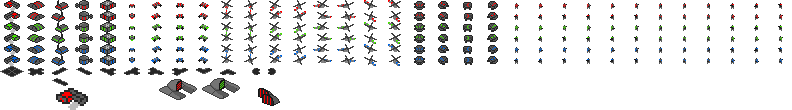
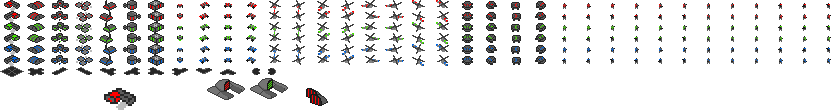
Add Barracks and Powerplant.

Changed region(s): [[0.0, 0.0, 1.0, 0.6818], [0.1818, 0.7091, 0.3939, 0.9545], [0.0606, 0.7091, 0.1818, 1.0]]

diff --git a/src/sk/neuromancer/Xune/gfx/SpriteSheet.java b/src/sk/neuromancer/Xune/gfx/SpriteSheet.java
@@ -28,15 +28,17 @@ public class SpriteSheet {
 
     public static final int SPRITE_ID_BASE = 0;
     public static final int SPRITE_ID_FACTORY = 1;
-    public static final int SPRITE_ID_REFINERY = 2;
-    public static final int SPRITE_ID_SILO = 3;
-    public static final int SPRITE_ID_HELIPAD = 4;
-    public static final int SPRITE_ID_BUGGY = 5;
-    public static final int SPRITE_ID_HELI = 9;
-    public static final int SPRITE_ID_HARVESTER = 17;
-    public static final int SPRITE_ID_SOLDRIED = 21;
+    public static final int SPRITE_ID_BARRACKS = 2;
+    public static final int SPRITE_ID_POWERPLANT = 3;
+    public static final int SPRITE_ID_REFINERY = 4;
+    public static final int SPRITE_ID_SILO = 5;
+    public static final int SPRITE_ID_HELIPAD = 6;
+    public static final int SPRITE_ID_BUGGY = 7;
+    public static final int SPRITE_ID_HELI = 11;
+    public static final int SPRITE_ID_HARVESTER = 19;
+    public static final int SPRITE_ID_SOLDIER = 23;
 
-    public static final int SPRITE_ROW_LENGTH = 33;
+    public static final int SPRITE_ROW_LENGTH = 35;
 
     public static final int SPRITE_OFFSET_RED = 0;
     public static final int SPRITE_OFFSET_GREEN = SPRITE_ROW_LENGTH * 2;

diff --git a/src/sk/neuromancer/Xune/game/Player.java b/src/sk/neuromancer/Xune/game/Player.java
@@ -27,6 +27,8 @@ public class Player extends EntityOwner {
         this.addEntity(new Silo(5, 5, Orientation.NORTH, this, this.flag));
         this.addEntity(new Silo(5, 4, Orientation.NORTH, this, this.flag));
         this.addEntity(new Helipad(4, 5, Orientation.NORTH, this, this.flag));
+        this.addEntity(new Barracks(6, 4, Orientation.NORTH, this, this.flag));
+        this.addEntity(new Powerplant(6, 3, Orientation.NORTH, this, this.flag));
         Factory factory = new Factory(6, 5, Orientation.NORTH, this, this.flag);
         this.addEntity(factory);
         this.addEntity(new Buggy(tileToCenterLevelX(6, 8), tileToCenterLevelY(6, 8), Orientation.SOUTHEAST, this, this.flag));

diff --git a/src/sk/neuromancer/Xune/entity/building/Powerplant.java b/src/sk/neuromancer/Xune/entity/building/Powerplant.java
@@ -1,0 +1,20 @@
+package sk.neuromancer.Xune.entity.building;
+
+import sk.neuromancer.Xune.entity.EntityOwner;
+import sk.neuromancer.Xune.entity.Flag;
+import sk.neuromancer.Xune.entity.Orientation;
+import sk.neuromancer.Xune.gfx.SpriteSheet;
+
+import static sk.neuromancer.Xune.level.Tile.PASS_EDGES;
+
+public class Powerplant extends Building {
+
+    public Powerplant(int x, int y, Orientation orientation, EntityOwner owner, Flag flag) {
+        super(x, y, orientation, owner, flag, 500, SpriteSheet.SPRITE_ID_POWERPLANT);
+    }
+
+    @Override
+    public boolean[] getPassable() {
+        return PASS_EDGES;
+    }
+}

diff --git a/src/sk/neuromancer/Xune/entity/building/Barracks.java b/src/sk/neuromancer/Xune/entity/building/Barracks.java
@@ -1,0 +1,20 @@
+package sk.neuromancer.Xune.entity.building;
+
+import sk.neuromancer.Xune.entity.EntityOwner;
+import sk.neuromancer.Xune.entity.Flag;
+import sk.neuromancer.Xune.entity.Orientation;
+import sk.neuromancer.Xune.gfx.SpriteSheet;
+
+import static sk.neuromancer.Xune.level.Tile.PASS_EDGES;
+
+public class Barracks extends Building {
+
+    public Barracks(int x, int y, Orientation orientation, EntityOwner owner, Flag flag) {
+        super(x, y, orientation, owner, flag, 500, SpriteSheet.SPRITE_ID_BARRACKS);
+    }
+
+    @Override
+    public boolean[] getPassable() {
+        return PASS_EDGES;
+    }
+}

diff --git a/src/sk/neuromancer/Xune/entity/unit/Soldier.java b/src/sk/neuromancer/Xune/entity/unit/Soldier.java
@@ -46,7 +46,7 @@ public class Soldier extends Unit {
             case 1, 3 -> variant = 0;
             case 2 -> variant = 2;
         }
-        this.sprite = SpriteSheet.ENTITY_SHEET.getSprite(SpriteSheet.SPRITE_ID_SOLDRIED + SpriteSheet.flagToOffset(flag) + variant + animation);
+        this.sprite = SpriteSheet.ENTITY_SHEET.getSprite(SpriteSheet.SPRITE_ID_SOLDIER + SpriteSheet.flagToOffset(flag) + variant + animation);
     }
 
     @Override

diff --git a/src/sk/neuromancer/Xune/gfx/HUD.java b/src/sk/neuromancer/Xune/gfx/HUD.java
@@ -64,6 +64,7 @@ public class HUD implements Tickable, Renderable {
         // Render HUD text
         glPushMatrix();
         glTranslatef(hudLeft, hudTop, 0);
+        glScalef(1.5f, 1.5f, 0);
 
         renderText(0, 60, "MONEY: " + game.getLevel().getPlayer().getMoney());
         float levelX = game.getLevel().getLevelX(mouseX);
